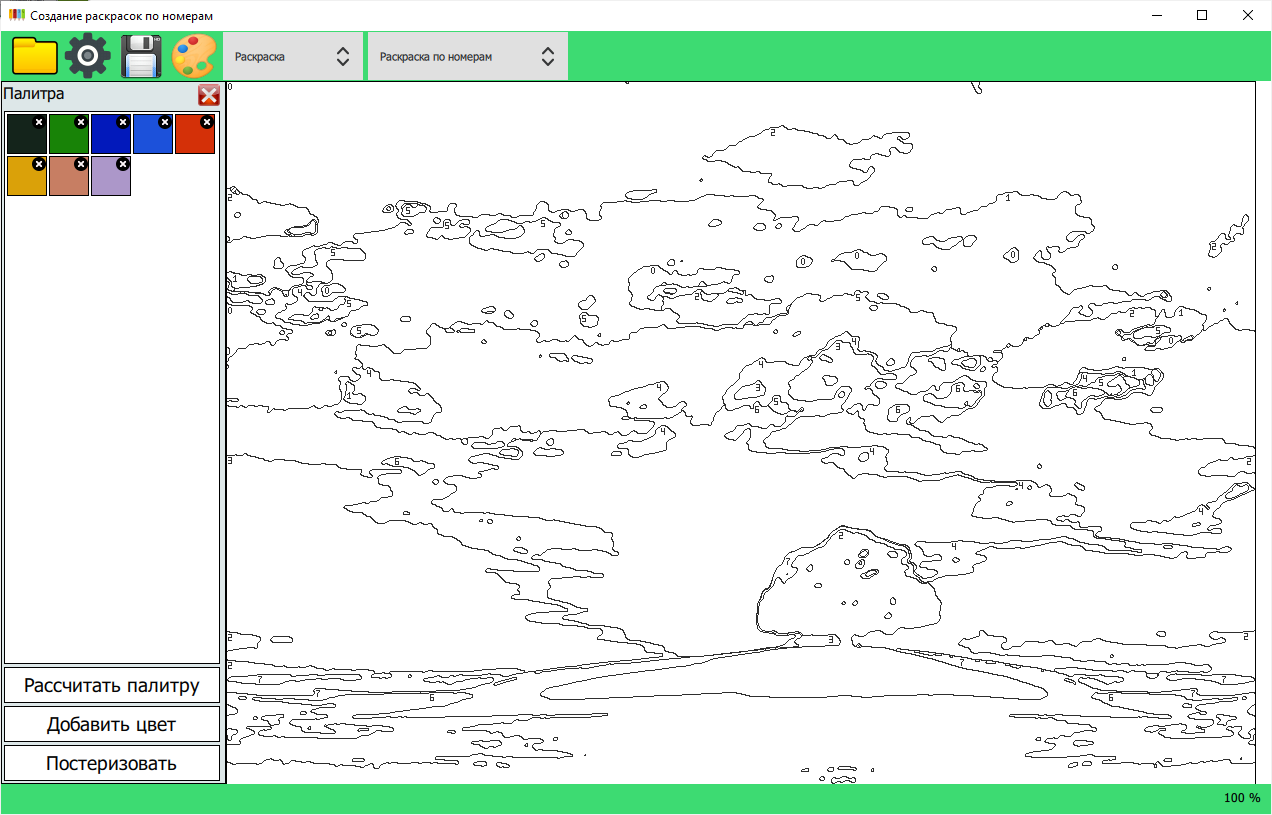
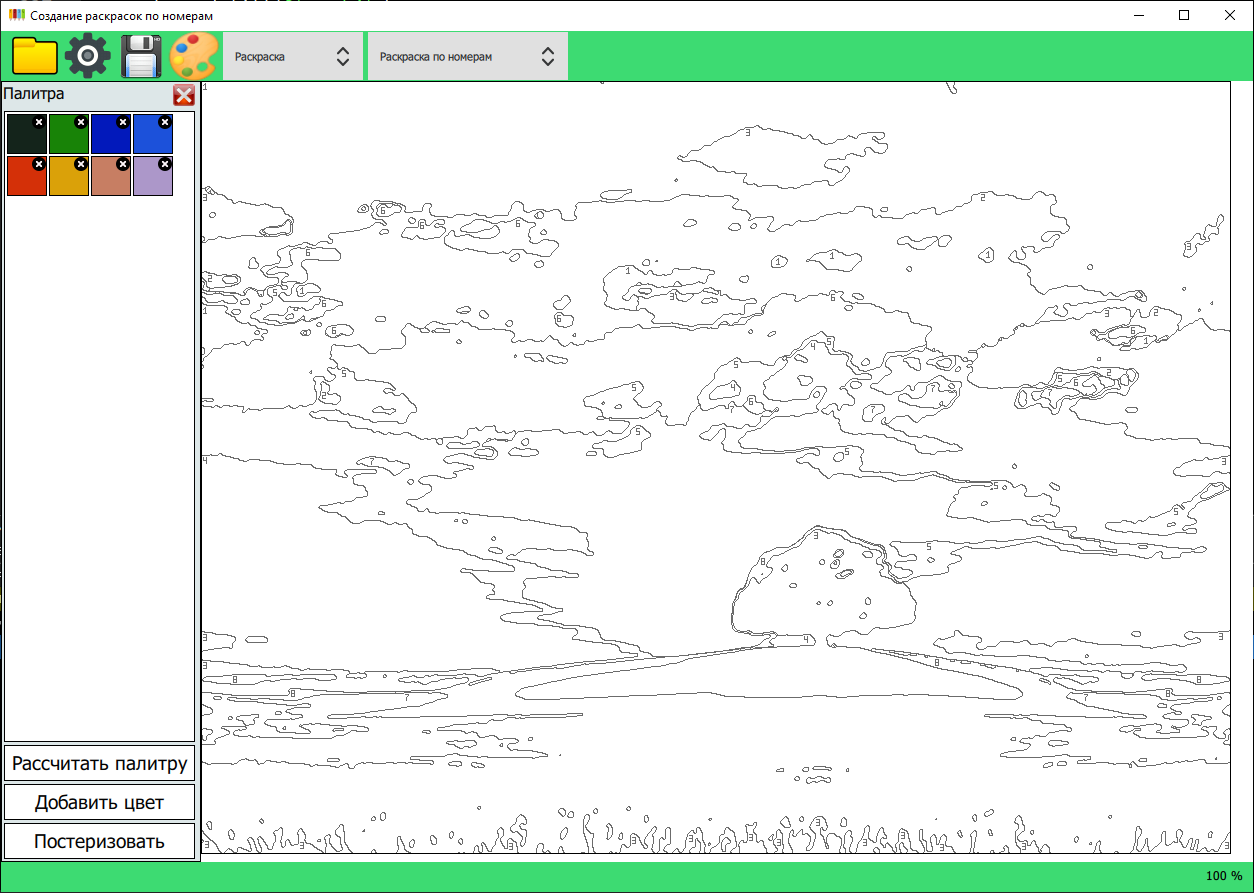
Вернул нумерацию цветов с "1"

diff --git a/src/algorithms.cpp b/src/algorithms.cpp
@@ -650,7 +650,7 @@ void findAreas(const QImage &posterized, const QImage &edges,
           QString colorName = posterizedColor.name(QColor::HexRgb);
           if(!colorsMap.contains(colorName))
           {
-            int id = colorsMap.size();
+            int id = colorsMap.size() + 1;
             colorsMap[colorName] = id;
           }
           QList<QPoint> filledPixels;

diff --git a/src/imagecreator.cpp b/src/imagecreator.cpp
@@ -233,7 +233,7 @@ void ImageCreator::_createLegend(const QMap<QString, int> &colorsMap)
     for(const auto& colorName: colorsMap.keys())
     {
         int id = colorsMap[colorName];
-        int index = id;
+        int index = id - 1;
         int row = index / columnsCount;
         int column = index % columnsCount;
         int x = margins + column * (itemSize + spacing);
